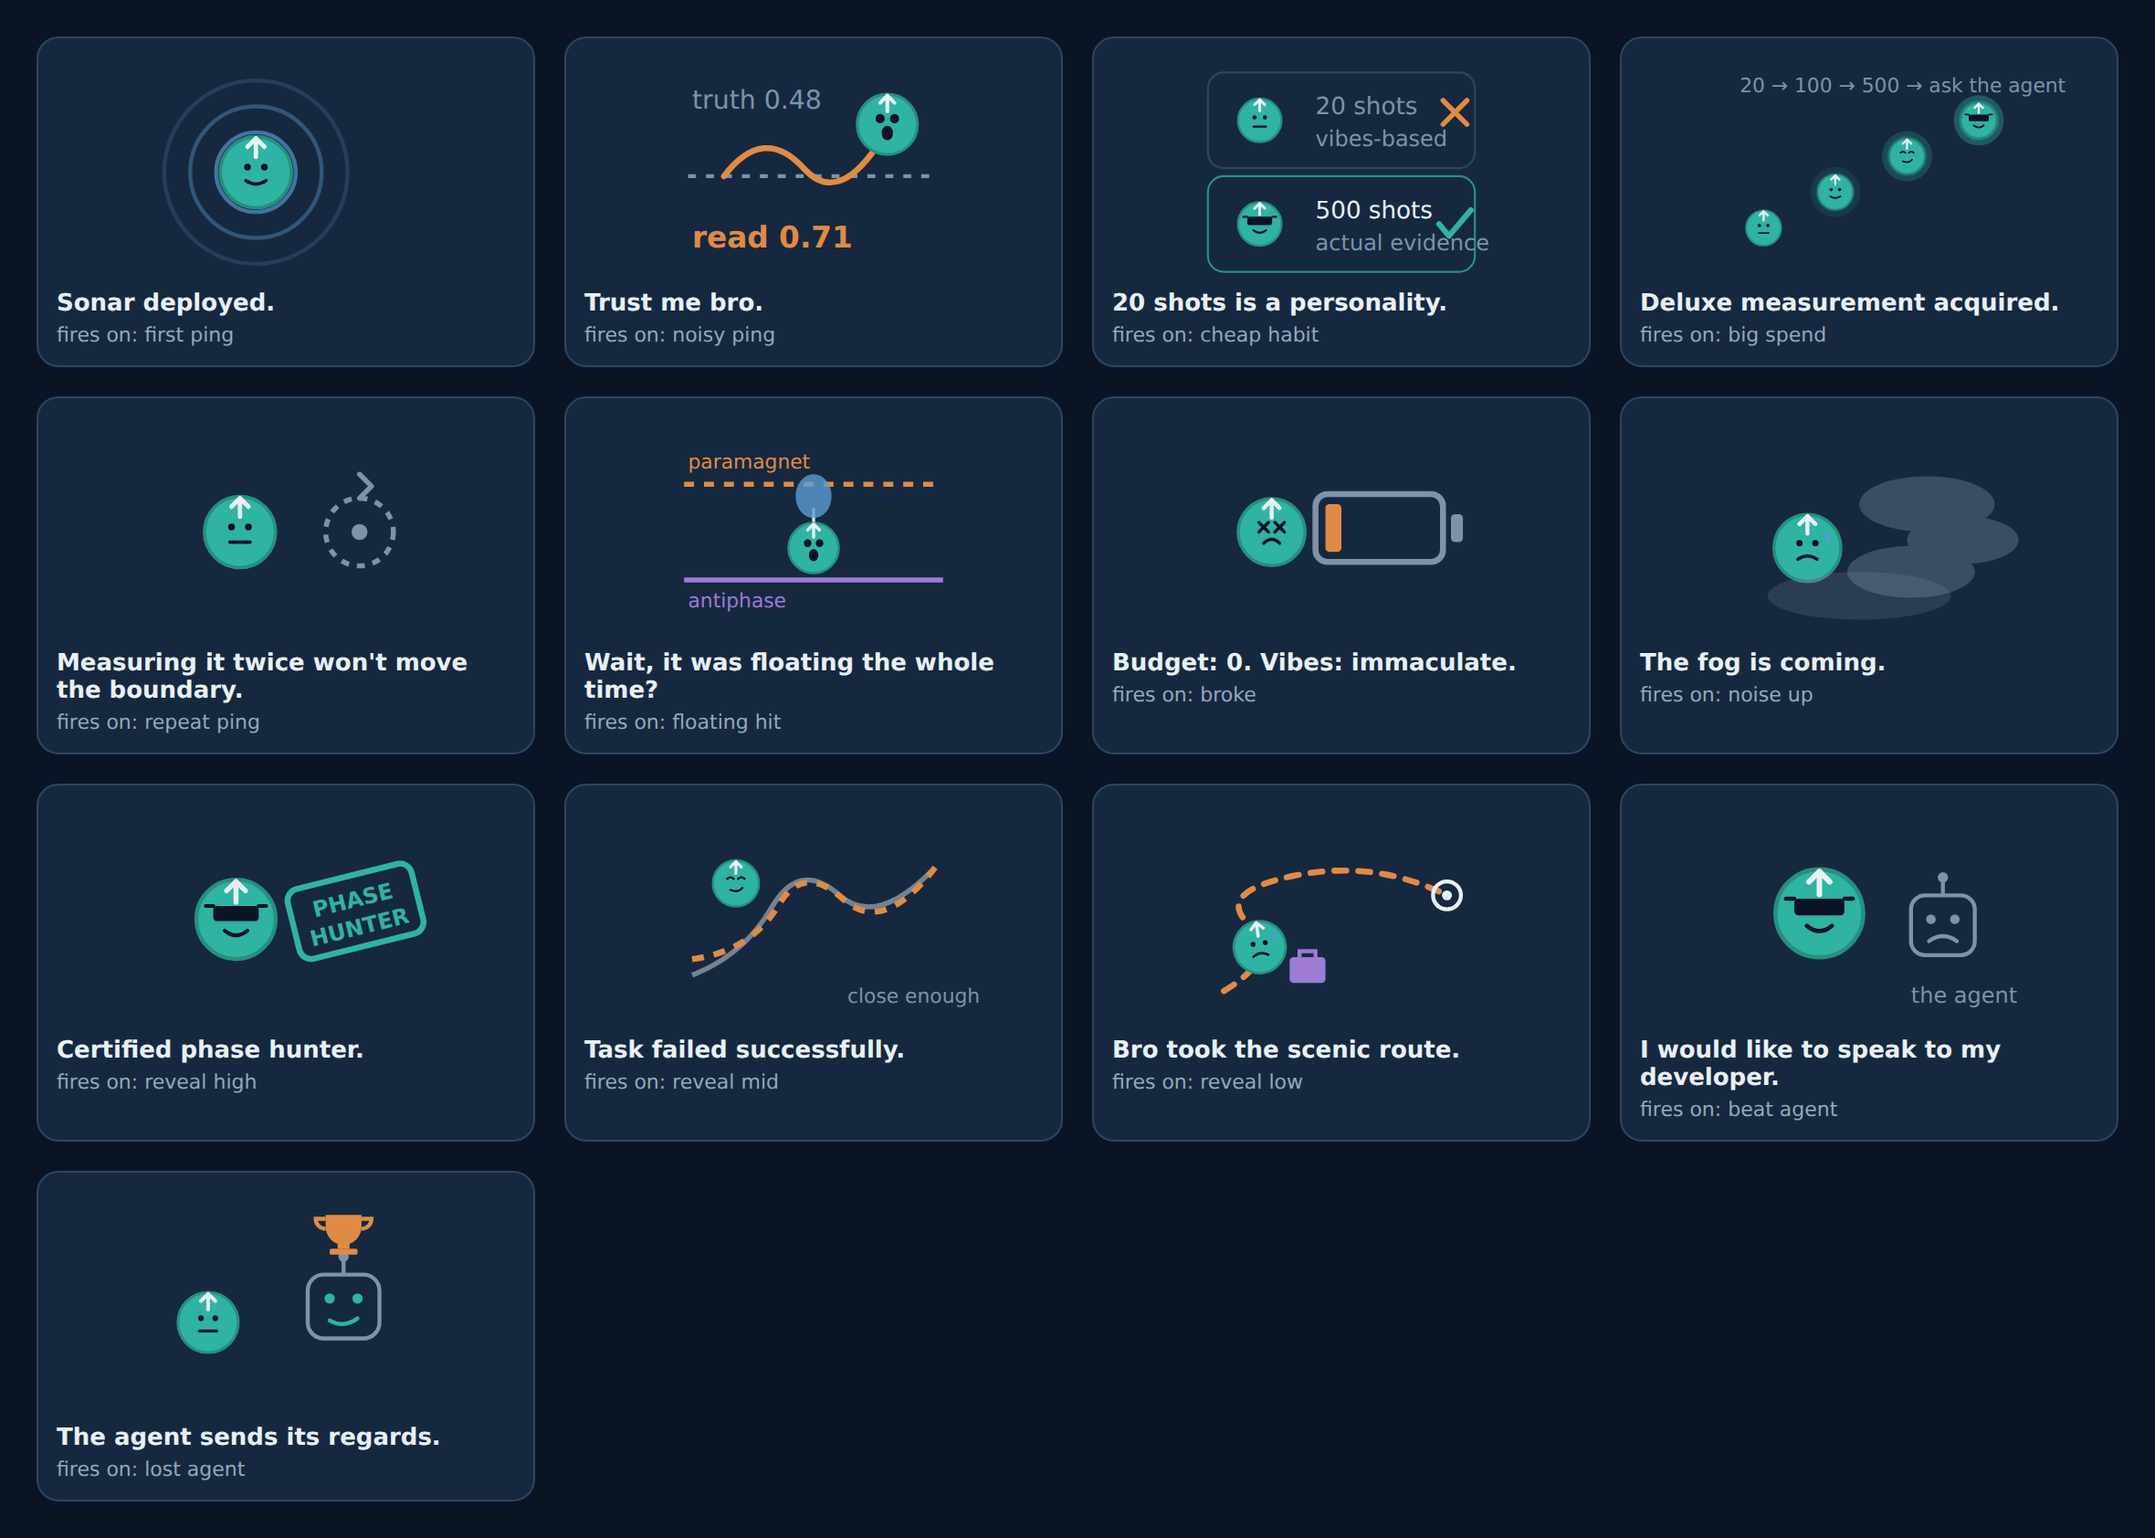
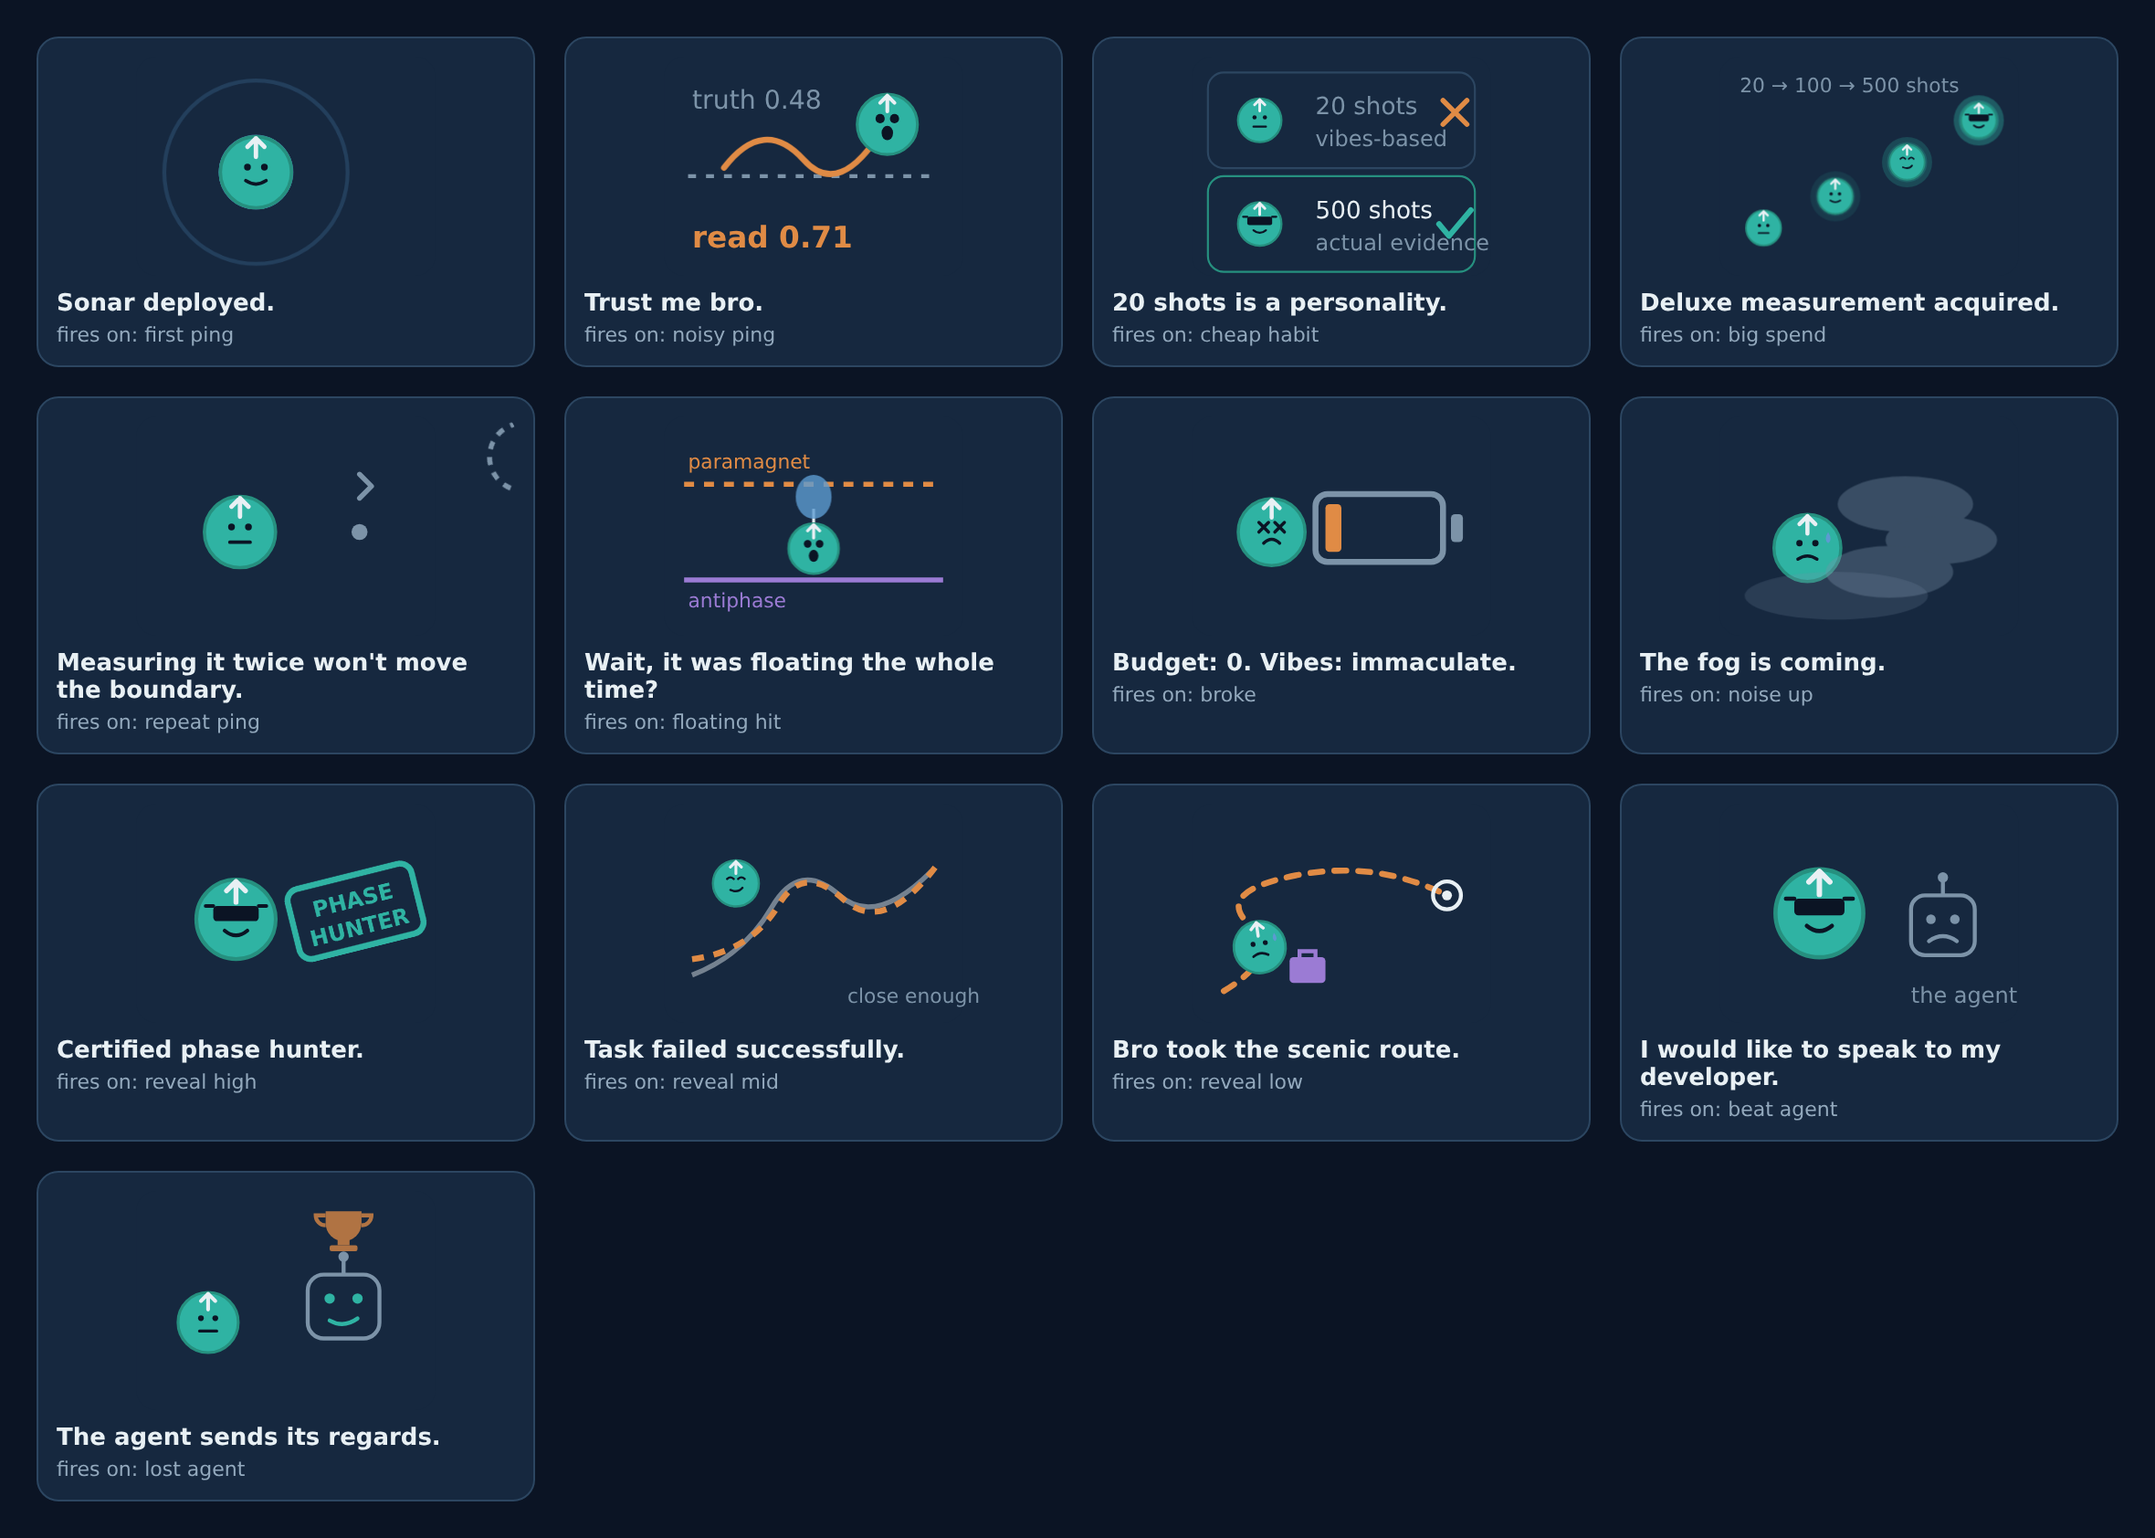
Animate the meme art and record GIFs for the README
CSS keyframes on the SVG scenes (pulsing sonar, drifting fog, bobbing balloon,
landing stamp), with animated groups wrapped so CSS transforms no longer clobber
their SVG placement. scripts/make_gifs.py drives the live game with Playwright
and writes figures/gameplay.gif and figures/memes.gif, so the GIFs regenerate
from the code instead of drifting out of date.

diff --git a/game/memes.js b/game/memes.js
@@ -53,14 +53,14 @@ const SCENES = {
     <text x="14" y="26" fill="${P.grey}" font-size="13" font-family="system-ui">truth 0.48</text>
     <text x="14" y="96" fill="${P.orange}" font-size="15" font-weight="700" font-family="system-ui">read 0.71</text>
     <path d="M12 60 H138" stroke="${P.grey}" stroke-width="2" stroke-dasharray="4 5"/>
-    <path d="M30 60 q20 -26 40 -4 q18 20 40 -16" stroke="${P.orange}" stroke-width="3" fill="none" stroke-linecap="round"/>
+    <path class="ph-wobble" d="M30 60 q20 -26 40 -4 q18 20 40 -16" stroke="${P.orange}" stroke-width="3" fill="none" stroke-linecap="round"/>
     ${spin("shock",112,34,0.72)}`),
 
   /* sonar rings going out from the mascot */
   sonar: svg(150,110,`
-    <circle cx="60" cy="58" r="20" fill="none" stroke="${P.blue}" stroke-width="2" opacity=".65"/>
-    <circle cx="60" cy="58" r="33" fill="none" stroke="${P.blue}" stroke-width="2" opacity=".4"/>
-    <circle cx="60" cy="58" r="46" fill="none" stroke="${P.blue}" stroke-width="2" opacity=".2"/>
+    <circle class="ph-ring ph-r1" cx="60" cy="58" r="20" fill="none" stroke="${P.blue}" stroke-width="2" opacity=".65"/>
+    <circle class="ph-ring ph-r2" cx="60" cy="58" r="33" fill="none" stroke="${P.blue}" stroke-width="2" opacity=".4"/>
+    <circle class="ph-ring ph-r3" cx="60" cy="58" r="46" fill="none" stroke="${P.blue}" stroke-width="2" opacity=".2"/>
     ${spin("neutral",60,58,0.85)}`),
 
   /* sunglasses drop: mascot above a beaten robot rival */
@@ -99,18 +99,18 @@ const SCENES = {
     <path d="M10 34 H140" stroke="${P.orange}" stroke-width="2.5" stroke-dasharray="5 5"/>
     <text x="12" y="96" fill="${P.purple}" font-size="10" font-family="system-ui">antiphase</text>
     <text x="12" y="26" fill="${P.orange}" font-size="10" font-family="system-ui">paramagnet</text>
-    <path d="M75 46 v12" stroke="${P.light}" stroke-width="1.5"/>
+    <g class="ph-bob"><path d="M75 46 v12" stroke="${P.light}" stroke-width="1.5"/>
     <ellipse cx="75" cy="40" rx="9" ry="11" fill="${P.blue}" opacity=".8"/>
-    ${spin("shock",75,66,0.6)}`),
+    ${spin("shock",75,66,0.6)}</g>`),
 
   /* fog rolling in */
   fog: svg(150,110,`
     ${spin("sweat",44,66,0.8)}
-    <g fill="${P.grey}" opacity=".35">
+    <g class="ph-drift" fill="${P.grey}" opacity=".35">
       <ellipse cx="104" cy="44" rx="34" ry="14"/><ellipse cx="122" cy="62" rx="28" ry="12"/>
       <ellipse cx="96" cy="78" rx="32" ry="13"/>
     </g>
-    <g fill="${P.grey}" opacity=".2"><ellipse cx="70" cy="90" rx="46" ry="12"/></g>`),
+    <g class="ph-drift ph-slow" fill="${P.grey}" opacity=".2"><ellipse cx="70" cy="90" rx="46" ry="12"/></g>`),
 
   /* two-panel: cheap vs sharp ping */
   twopanel: svg(150,110,`
@@ -132,15 +132,15 @@ const SCENES = {
 
   /* escalating glow: the budget ladder */
   ladder: svg(150,110,`
-    ${[0,1,2,3].map(i=>`<g transform="translate(${22+i*36} ${86-i*18})">
-        ${spin(["flat","neutral","smug","cool"][i],0,0,0.42,0,i)}</g>`).join("")}
-    <text x="10" y="18" fill="${P.grey}" font-size="10" font-family="system-ui">20 → 100 → 500 → ask the agent</text>`),
+    ${[0,1,2,3].map(i=>`<g class="ph-rise" style="animation-delay:${i*0.25}s"><g transform="translate(${22+i*36} ${86-i*18})">
+        ${spin(["flat","neutral","smug","cool"][i],0,0,0.42,0,i)}</g></g>`).join("")}
+    <text x="10" y="18" fill="${P.grey}" font-size="10" font-family="system-ui">20 → 100 → 500 shots</text>`),
 
   /* repeat ping */
   repeat: svg(150,110,`
     ${spin("flat",52,58,0.85)}
     <g transform="translate(112 58)">
-      <circle r="17" fill="none" stroke="${P.grey}" stroke-width="2.5" stroke-dasharray="4 4"/>
+      <circle class="ph-spin" r="17" fill="none" stroke="${P.grey}" stroke-width="2.5" stroke-dasharray="4 4"/>
       <path d="M0 -17 l6 -6 l-6 -6" stroke="${P.grey}" stroke-width="2.5" fill="none"
             stroke-linecap="round" stroke-linejoin="round"/>
       <circle r="4" fill="${P.grey}"/>
@@ -149,13 +149,13 @@ const SCENES = {
   /* certified: a stamp */
   certified: svg(150,110,`
     ${spin("cool",50,58,0.95)}
-    <g transform="translate(110 54) rotate(-14)">
+    <g class="ph-stamp-wrap" transform="translate(110 54) rotate(-14)"><g class="ph-stamp">
       <rect x="-32" y="-18" width="64" height="36" rx="6" fill="none" stroke="${P.skin}" stroke-width="3"/>
       <text x="0" y="-2" fill="${P.skin}" font-size="11" font-weight="700" text-anchor="middle"
             font-family="system-ui">PHASE</text>
       <text x="0" y="12" fill="${P.skin}" font-size="11" font-weight="700" text-anchor="middle"
             font-family="system-ui">HUNTER</text>
-    </g>`),
+    </g></g>`),
 
   /* the rival wins: robot holding the trophy */
   rival: svg(150,110,`
@@ -166,11 +166,11 @@ const SCENES = {
       <path d="M-7 7 q7 4 14 -1" stroke="${P.skin}" stroke-width="2" fill="none" stroke-linecap="round"/>
       <path d="M0 -16 v-7" stroke="${P.grey}" stroke-width="2"/><circle cx="0" cy="-25" r="2.6" fill="${P.grey}"/>
     </g>
-    <g transform="translate(104 20)">
+    <g class="ph-shine"><g transform="translate(104 20)">
       <path d="M-9 -8 h18 v6 a9 9 0 0 1 -18 0 z" fill="${P.orange}"/>
       <path d="M-9 -6 h-5 a5 5 0 0 0 5 5 M9 -6 h5 a5 5 0 0 1 -5 5" stroke="${P.orange}" stroke-width="2" fill="none"/>
       <rect x="-3" y="4" width="6" height="5" fill="${P.orange}"/><rect x="-7" y="9" width="14" height="3" rx="1" fill="${P.orange}"/>
-    </g>`),
+    </g></g>`),
 
   /* mid score: a shrug with a wonky boundary */
   wonky: svg(150,110,`

diff --git a/game/index.html b/game/index.html
@@ -41,7 +41,29 @@
   .rc .txt b{display:block;font-size:14px;line-height:1.3}
   .rc .txt span{display:block;font-size:11.5px;color:var(--muted);margin-top:2px;font-variant-numeric:tabular-nums}
   @keyframes pop{from{opacity:0;transform:translateY(10px) scale(.96)}to{opacity:1;transform:none}}
-  @media (prefers-reduced-motion:reduce){.rc{animation:none}}
+  /* scene animation - CSS only, so the art stays vector-sharp and weighs nothing */
+  .ph-ring{transform-origin:60px 58px;animation:ping 2.2s ease-out infinite}
+  .ph-r2{animation-delay:.35s} .ph-r3{animation-delay:.7s}
+  @keyframes ping{0%{transform:scale(.45);opacity:.9}70%{opacity:.15}100%{transform:scale(1.15);opacity:0}}
+  .ph-wobble{animation:wobble 1.5s ease-in-out infinite}
+  @keyframes wobble{0%,100%{transform:translateY(0)}50%{transform:translateY(-5px)}}
+  .ph-drift{animation:drift 7s ease-in-out infinite}
+  .ph-slow{animation-duration:11s;animation-direction:reverse}
+  @keyframes drift{0%,100%{transform:translateX(-12px)}50%{transform:translateX(12px)}}
+  .ph-bob{animation:bob 2.6s ease-in-out infinite}
+  @keyframes bob{0%,100%{transform:translateY(4px)}50%{transform:translateY(-6px)}}
+  .ph-shine{animation:shine 2s ease-in-out infinite}
+  @keyframes shine{0%,100%{opacity:1;transform:translateY(0)}50%{opacity:.6;transform:translateY(-3px)}}
+  .ph-rise{animation:rise 2.4s ease-in-out infinite}
+  @keyframes rise{0%,100%{transform:translateY(3px)}50%{transform:translateY(-4px)}}
+  .ph-spin{transform-origin:center;animation:turn 3.4s linear infinite}
+  @keyframes turn{to{transform:rotate(360deg)}}
+  .ph-stamp{transform-origin:center;transform-box:fill-box;animation:stamp 2.8s ease-out infinite}
+  @keyframes stamp{0%{transform:scale(1.6);opacity:0}14%{transform:scale(1);opacity:1}100%{transform:scale(1);opacity:1}}
+  @media (prefers-reduced-motion:reduce){
+    .rc{animation:none}
+    .ph-ring,.ph-wobble,.ph-drift,.ph-bob,.ph-shine,.ph-rise,.ph-spin,.ph-stamp{animation:none}
+  }
   #endcard{display:none;margin-top:12px}
   #endcard .panel{display:flex;gap:12px;align-items:center;background:#0F1D30;border:1px solid #2c4661;
                   border-radius:12px;padding:12px}

diff --git a/scripts/make_gifs.py b/scripts/make_gifs.py
@@ -1,0 +1,106 @@
+"""Record GIFs of the prototype for the README and the presentation video.
+
+    python3 scripts/make_gifs.py          # needs playwright + pillow
+
+Writes figures/gameplay.gif (a full round: pings, reveal, reaction cards) and
+figures/memes.gif (the reaction cards cycling). Everything recorded is our own
+art and our own game - no third-party footage.
+"""
+from __future__ import annotations
+
+import pathlib
+import sys
+
+from PIL import Image
+from playwright.sync_api import sync_playwright
+
+ROOT = pathlib.Path(__file__).resolve().parents[1]
+GAME = (ROOT / "game/index.html").as_uri()
+FIGURES = ROOT / "figures"
+FRAME_MS = 90
+
+
+def save(frames: list[bytes], path: pathlib.Path, width: int, ms: int = FRAME_MS) -> None:
+    import io
+    images = []
+    for raw in frames:
+        image = Image.open(io.BytesIO(raw)).convert("RGB")
+        image = image.resize((width, round(image.height * width / image.width)), Image.LANCZOS)
+        images.append(image.quantize(colors=128, method=Image.MEDIANCUT, dither=Image.FLOYDSTEINBERG))
+    images[0].save(path, save_all=True, append_images=images[1:], duration=ms, loop=0, optimize=True)
+    print(f"{path.name}: {len(images)} frames, {path.stat().st_size/1e6:.2f} MB")
+
+
+def gameplay(page) -> list[bytes]:
+    frames: list[bytes] = []
+    board = page.locator("#board").bounding_box()
+    panel = {"x": 0, "y": 0, "width": 1000, "height": 680}
+
+    def grab(n: int = 1) -> None:
+        for _ in range(n):
+            frames.append(page.screenshot(clip=panel))
+            page.wait_for_timeout(40)
+
+    grab(4)
+    page.click("text=20 shots (1)")
+    for fx, fy in [(0.22, 0.78), (0.33, 0.62), (0.44, 0.52), (0.58, 0.46), (0.72, 0.62), (0.86, 0.74)]:
+        page.mouse.click(board["x"] + board["width"] * fx, board["y"] + board["height"] * fy)
+        page.wait_for_timeout(120)
+        grab(3)
+    page.click("text=500 shots (4)")
+    for fx, fy in [(0.5, 0.35), (0.65, 0.8)]:
+        page.mouse.click(board["x"] + board["width"] * fx, board["y"] + board["height"] * fy)
+        page.wait_for_timeout(120)
+        grab(3)
+    # drag one boundary handle down, then reveal
+    page.mouse.move(board["x"] + board["width"] * 0.08, board["y"] + board["height"] * 0.36)
+    page.mouse.down()
+    for step in range(6):
+        page.mouse.move(board["x"] + board["width"] * 0.08,
+                        board["y"] + board["height"] * (0.36 + 0.035 * step))
+        grab(1)
+    page.mouse.up()
+    grab(2)
+    page.click("#reveal")
+    page.wait_for_timeout(120)
+    grab(14)
+    return frames
+
+
+def memes(page) -> list[bytes]:
+    page.evaluate("""() => {
+      document.querySelector('main').style.display='none';
+      const box=document.getElementById('cards');
+      box.style.cssText='position:static;padding:20px;display:block;min-height:150px';
+    }""")
+    ids = page.evaluate("Object.keys(CARDS)")
+    frames: list[bytes] = []
+    clip = {"x": 14, "y": 52, "width": 420, "height": 126}
+    for card in ids:
+        page.evaluate("""(id) => {
+          document.querySelectorAll('.rc').forEach(e=>e.remove());
+          lastCard = 0; react(id, 'fires on: ' + id.replace(/_/g,' '));
+        }""", card)
+        page.wait_for_timeout(120)
+        for _ in range(7):
+            frames.append(page.screenshot(clip=clip))
+            page.wait_for_timeout(60)
+    return frames
+
+
+def main() -> None:
+    FIGURES.mkdir(exist_ok=True)
+    with sync_playwright() as playwright:
+        browser = playwright.chromium.launch()
+        page = browser.new_page(viewport={"width": 1000, "height": 700})
+        page.goto(GAME)
+        page.wait_for_timeout(900)
+        save(gameplay(page), FIGURES / "gameplay.gif", 720)
+        page.reload()
+        page.wait_for_timeout(700)
+        save(memes(page), FIGURES / "memes.gif", 460, ms=110)
+        browser.close()
+
+
+if __name__ == "__main__":
+    main()

diff --git a/README.md b/README.md
@@ -44,7 +44,10 @@ report it rather than tuning the classifier to match the lines.
 
 ### Playable prototype
 
-![game prototype](figures/game_prototype.png)
+![a round of Phase Hunter](figures/gameplay.gif)
+
+*A real round, recorded from the prototype: cheap pings, two sharp ones, dragging a boundary, then the
+reveal.*
 
 Open `game/index.html` in a browser — no server, no build step. Click the map to ping, drag the orange
 handles to draw your boundaries, press **Reveal & score**. Ping readings are drawn from the exact
@@ -57,6 +60,8 @@ asks whether the state still looks ordered, and halves the interval. In two test
 the human-versus-agent measurement-budget experiment is still to come.
 
 ### Reactions (the meme layer)
+
+![the reaction cards in motion](figures/memes.gif)
 
 ![the thirteen reaction cards](figures/meme_wall.png)
 
@@ -73,7 +78,10 @@ All thirteen cards fire on real game state, so the joke doubles as feedback abou
 **Everything is original art.** The mascot, the props and the captions are ours, drawn as inline SVG
 in `game/memes.js`. We ship no copyrighted meme images, no photographs, and no real person's likeness
 — which matters for a public repo. Cards appear one at a time, are dismissible, auto-hide after four
-seconds, honour `prefers-reduced-motion`, and can be switched off with the **Memes** toggle.
+seconds, honour `prefers-reduced-motion`, and can be switched off with the **Memes** toggle. The art
+animates with CSS rather than shipping video: sonar rings pulse, fog drifts, the balloon bobs, the
+stamp lands. `scripts/make_gifs.py` records the GIFs above straight from the running game, so they are
+never out of date with the code.
 
 ---
 
@@ -129,6 +137,7 @@ src/pennylane_pipeline.py  PennyLane Hamiltonian, VQE ansatz, noisy correlators 
 scripts/make_dataset.py    grid scan -> data/ + game/dataset.js
 scripts/make_figures.py    figures/
 scripts/run_pennylane.py   cross-check and noise pilot
+scripts/make_gifs.py       records figures/gameplay.gif and figures/memes.gif from the live game
 game/index.html            playable prototype (no build step)
 game/memes.js              original mascot art and the thirteen reaction cards
 docs/Phase_Hunter_Plan.pdf full project plan: game design, levels, experiment, schedule
